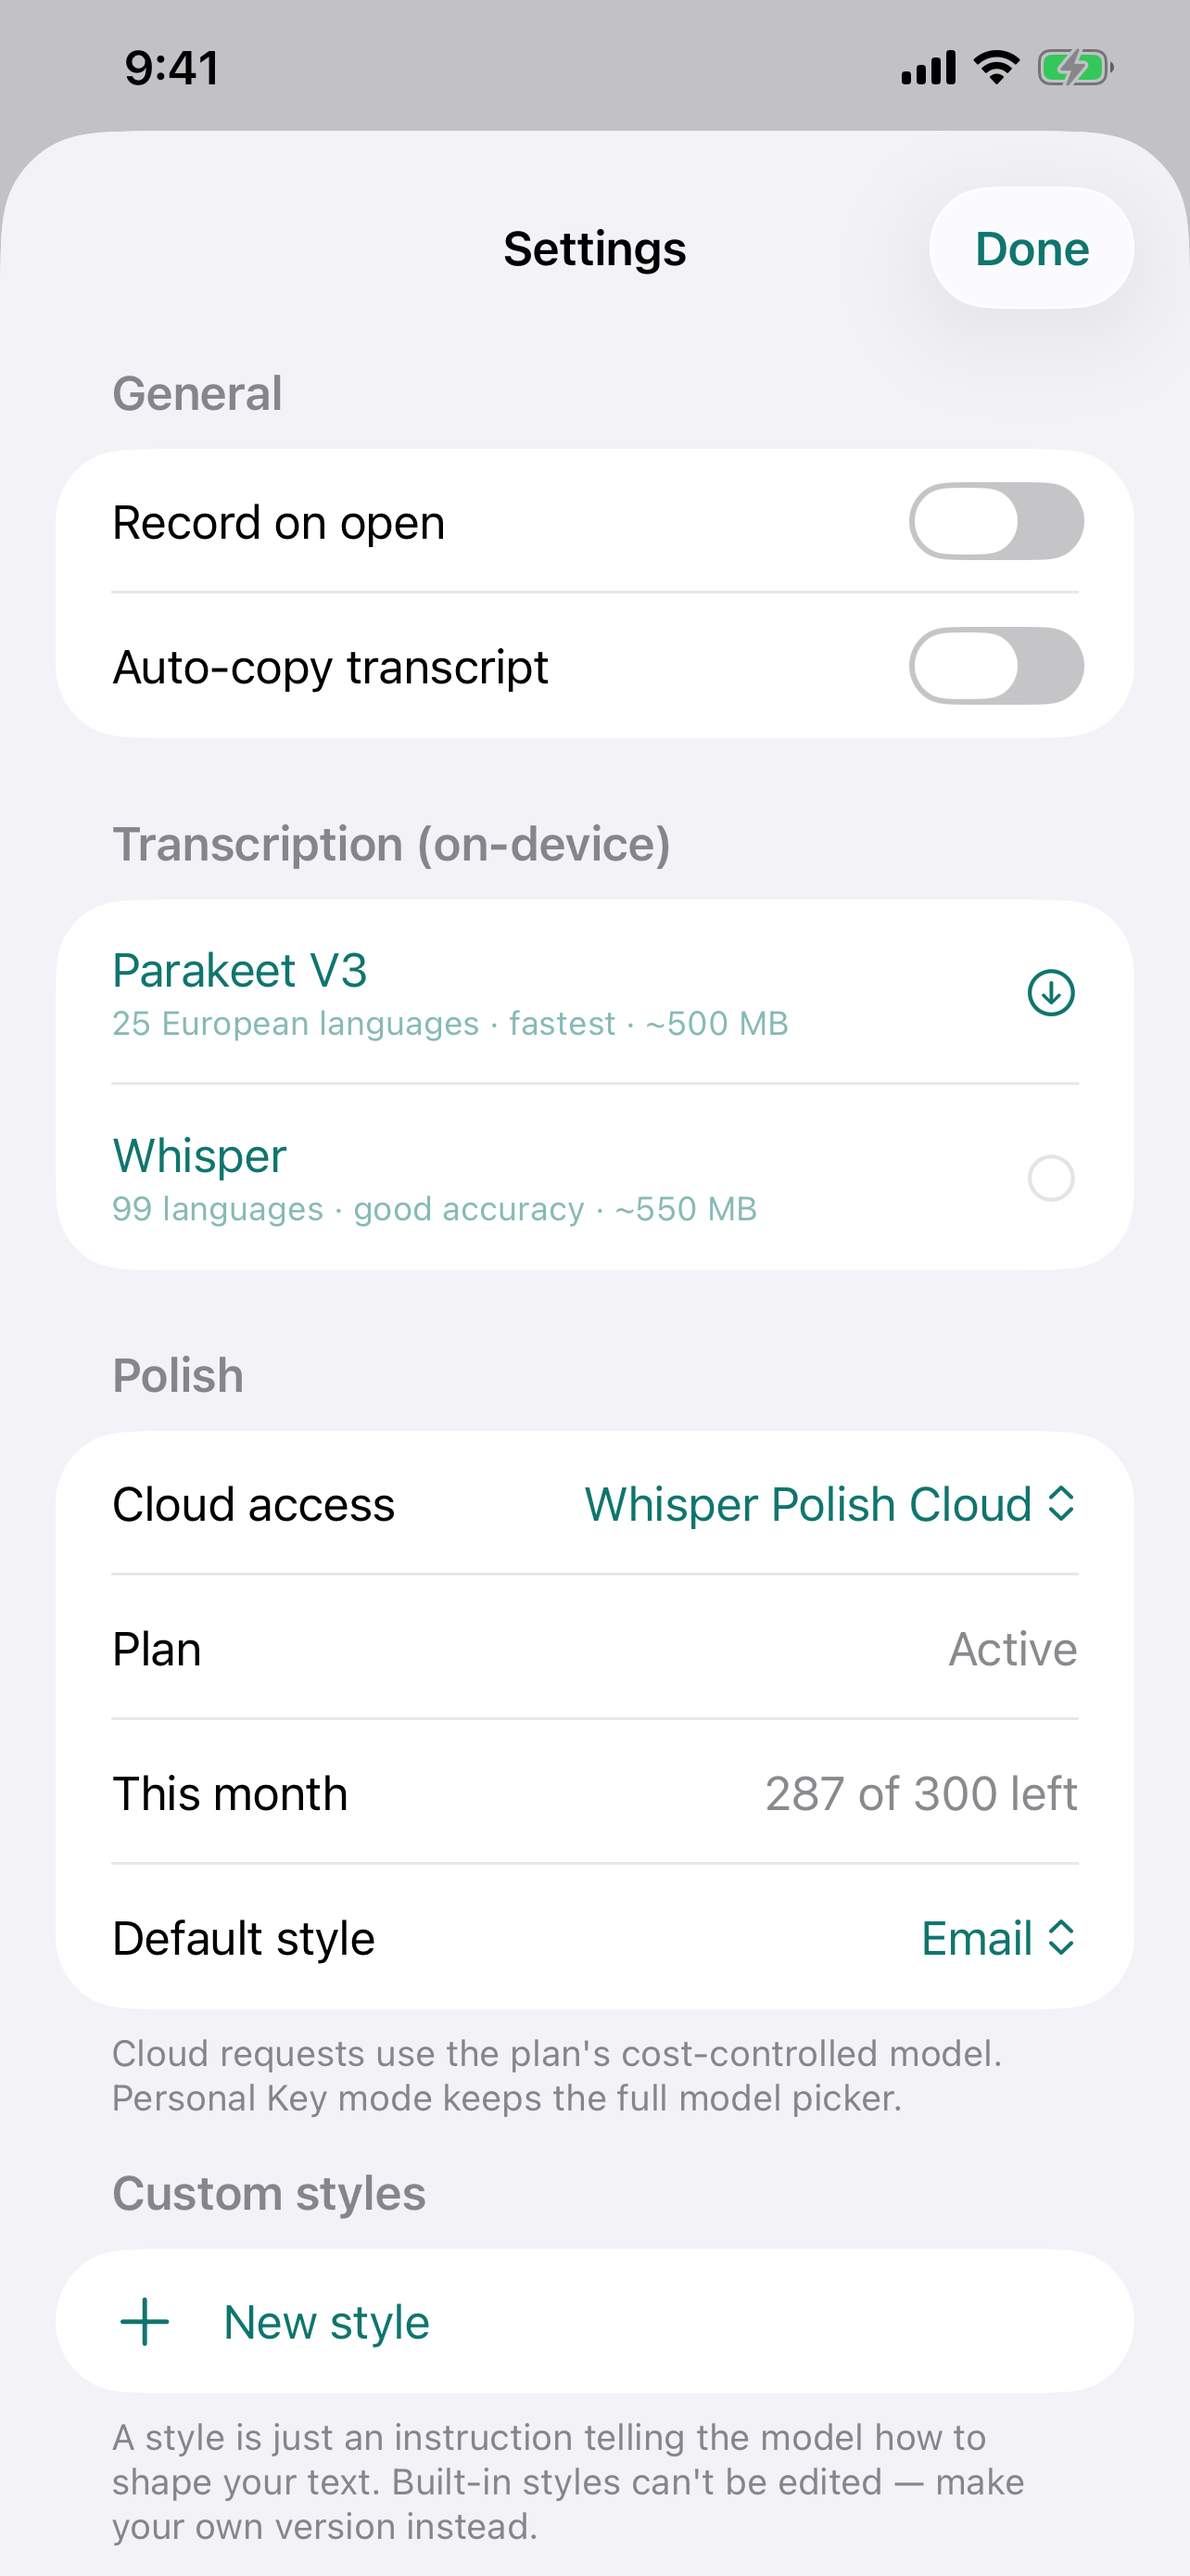
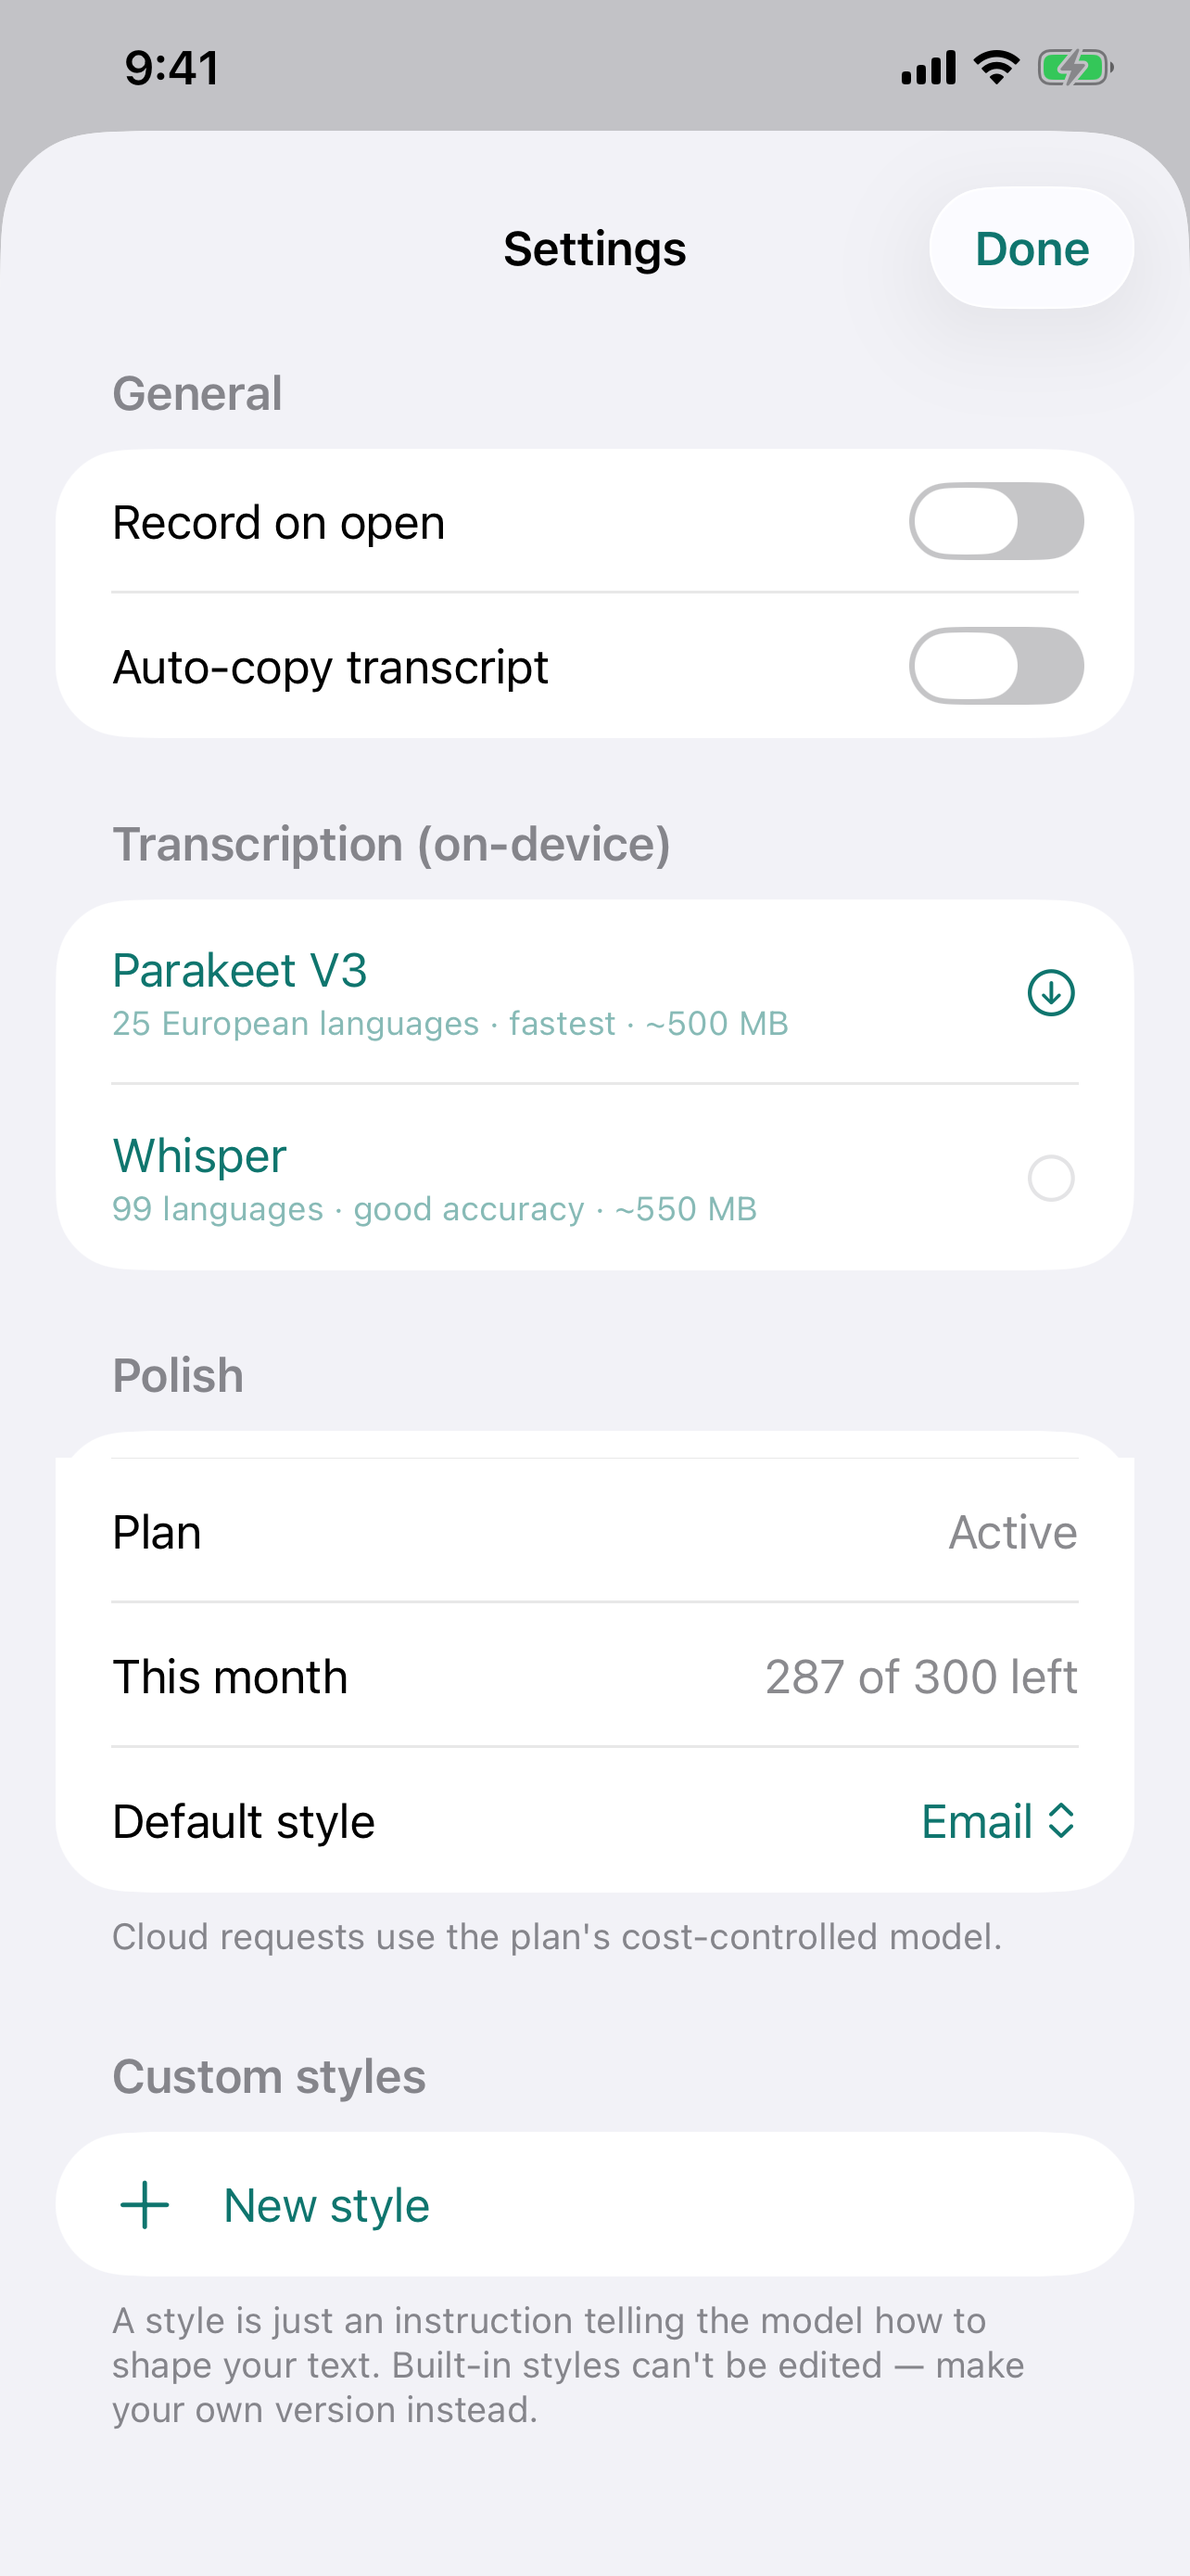
Remove prices from App Store screenshot assets.
Guideline 2.3.7 rejected the marketing frame that said "$4.99 a month."
The generator and the 6.5-inch cloud-plan screenshots now say
"300 cloud polishes a month" with no dollar amount. Pricing stays in
the App Store description.

diff --git a/AppStore/Scripts/render-marketing-screenshots.swift b/AppStore/Scripts/render-marketing-screenshots.swift
@@ -214,7 +214,7 @@ let slides = [
     Slide(
         source: "04-cloud-plan.png",
         output: "04-simple-cloud-plan.png",
-        headline: "Up to 300 cloud polishes.\n$4.99 a month.",
+        headline: "300 cloud polishes\na month.",
         subhead: "No API key required. One predictable monthly plan.",
         backgroundTop: NSColor(hex: 0x15201E),
         backgroundBottom: NSColor(hex: 0x080D0C),
